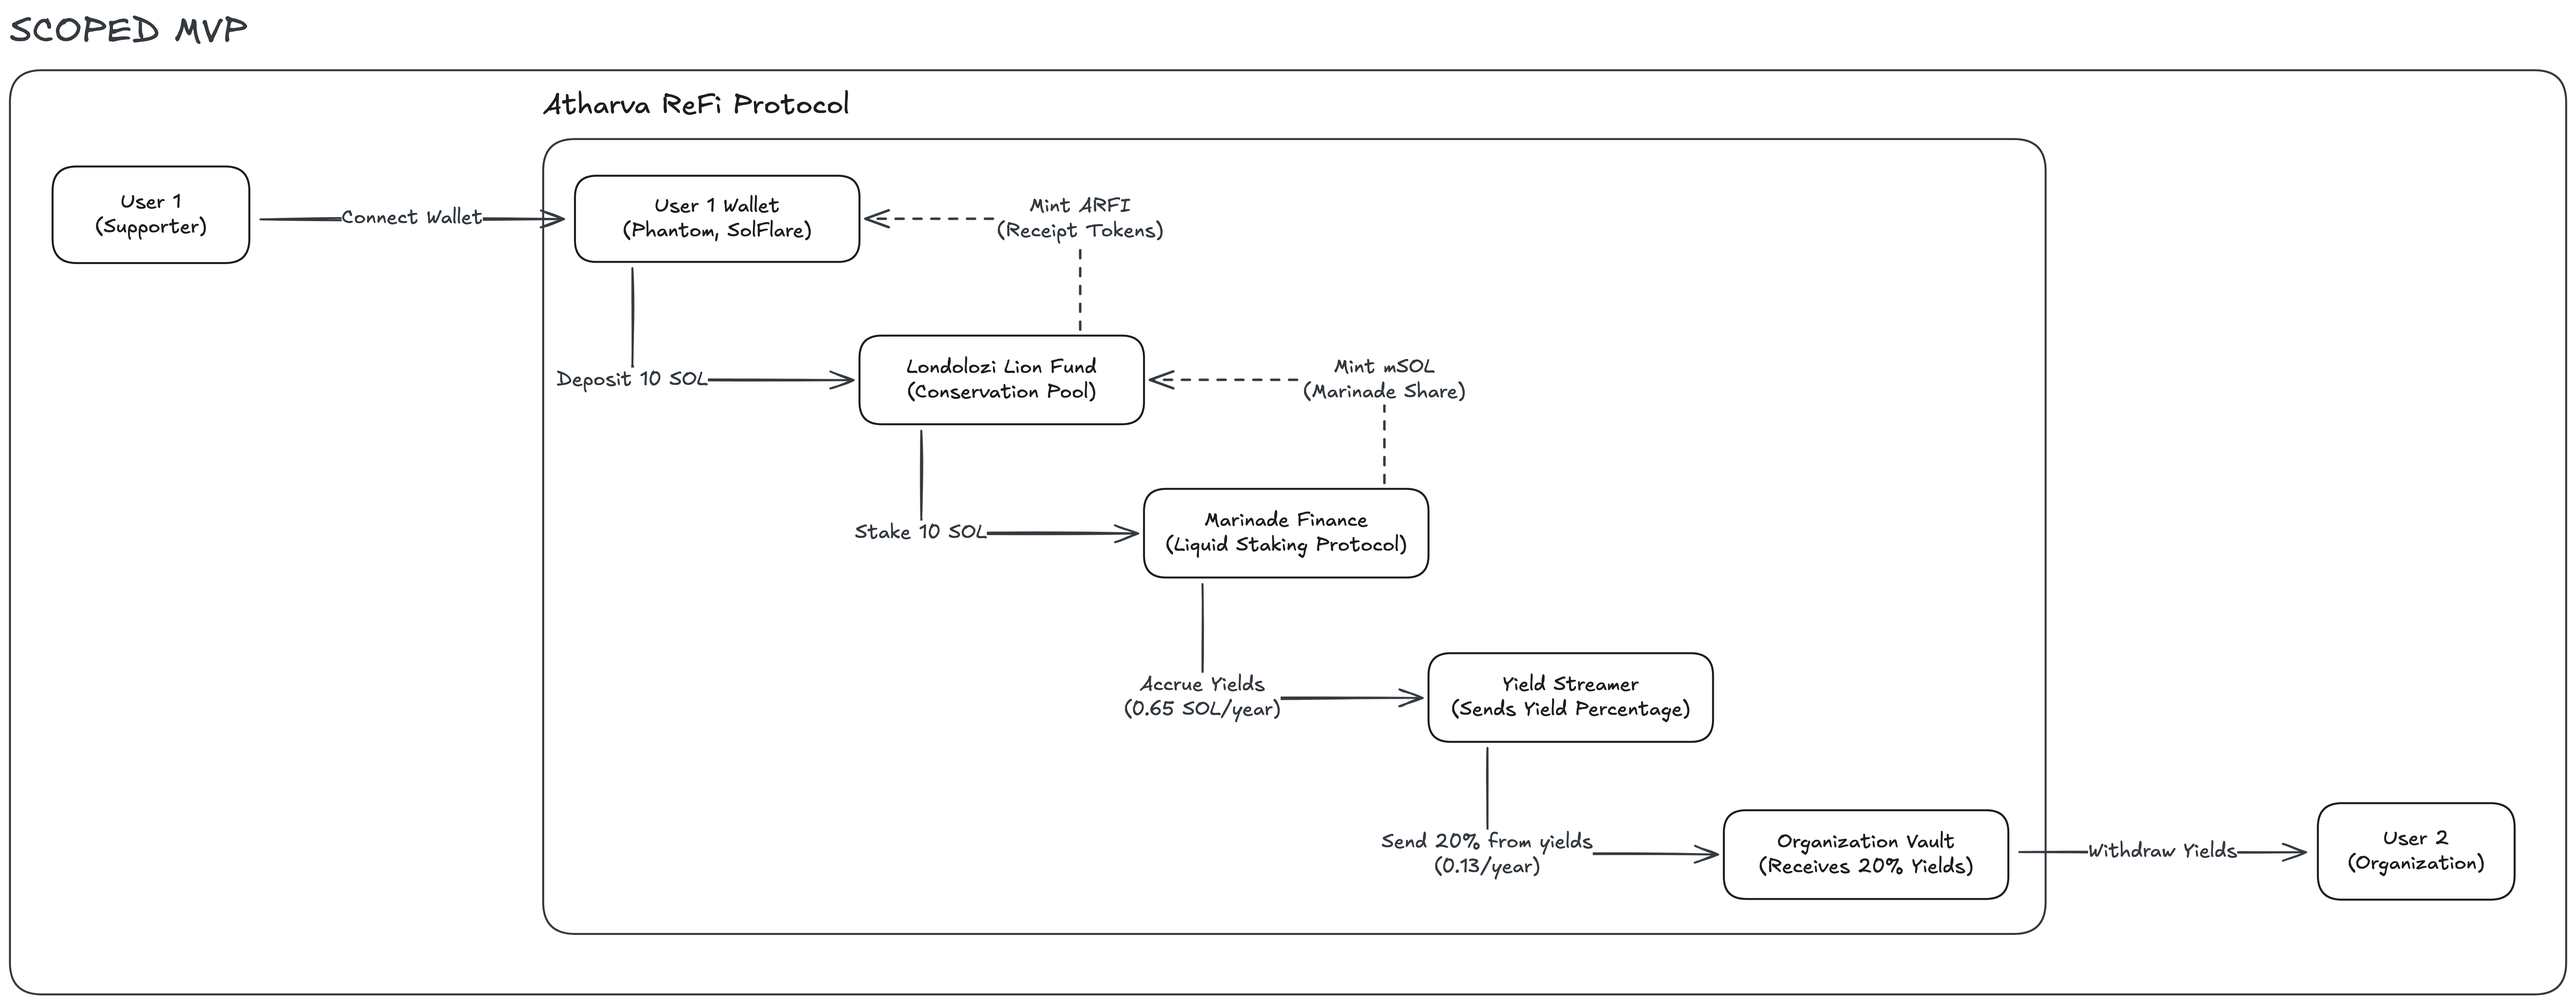
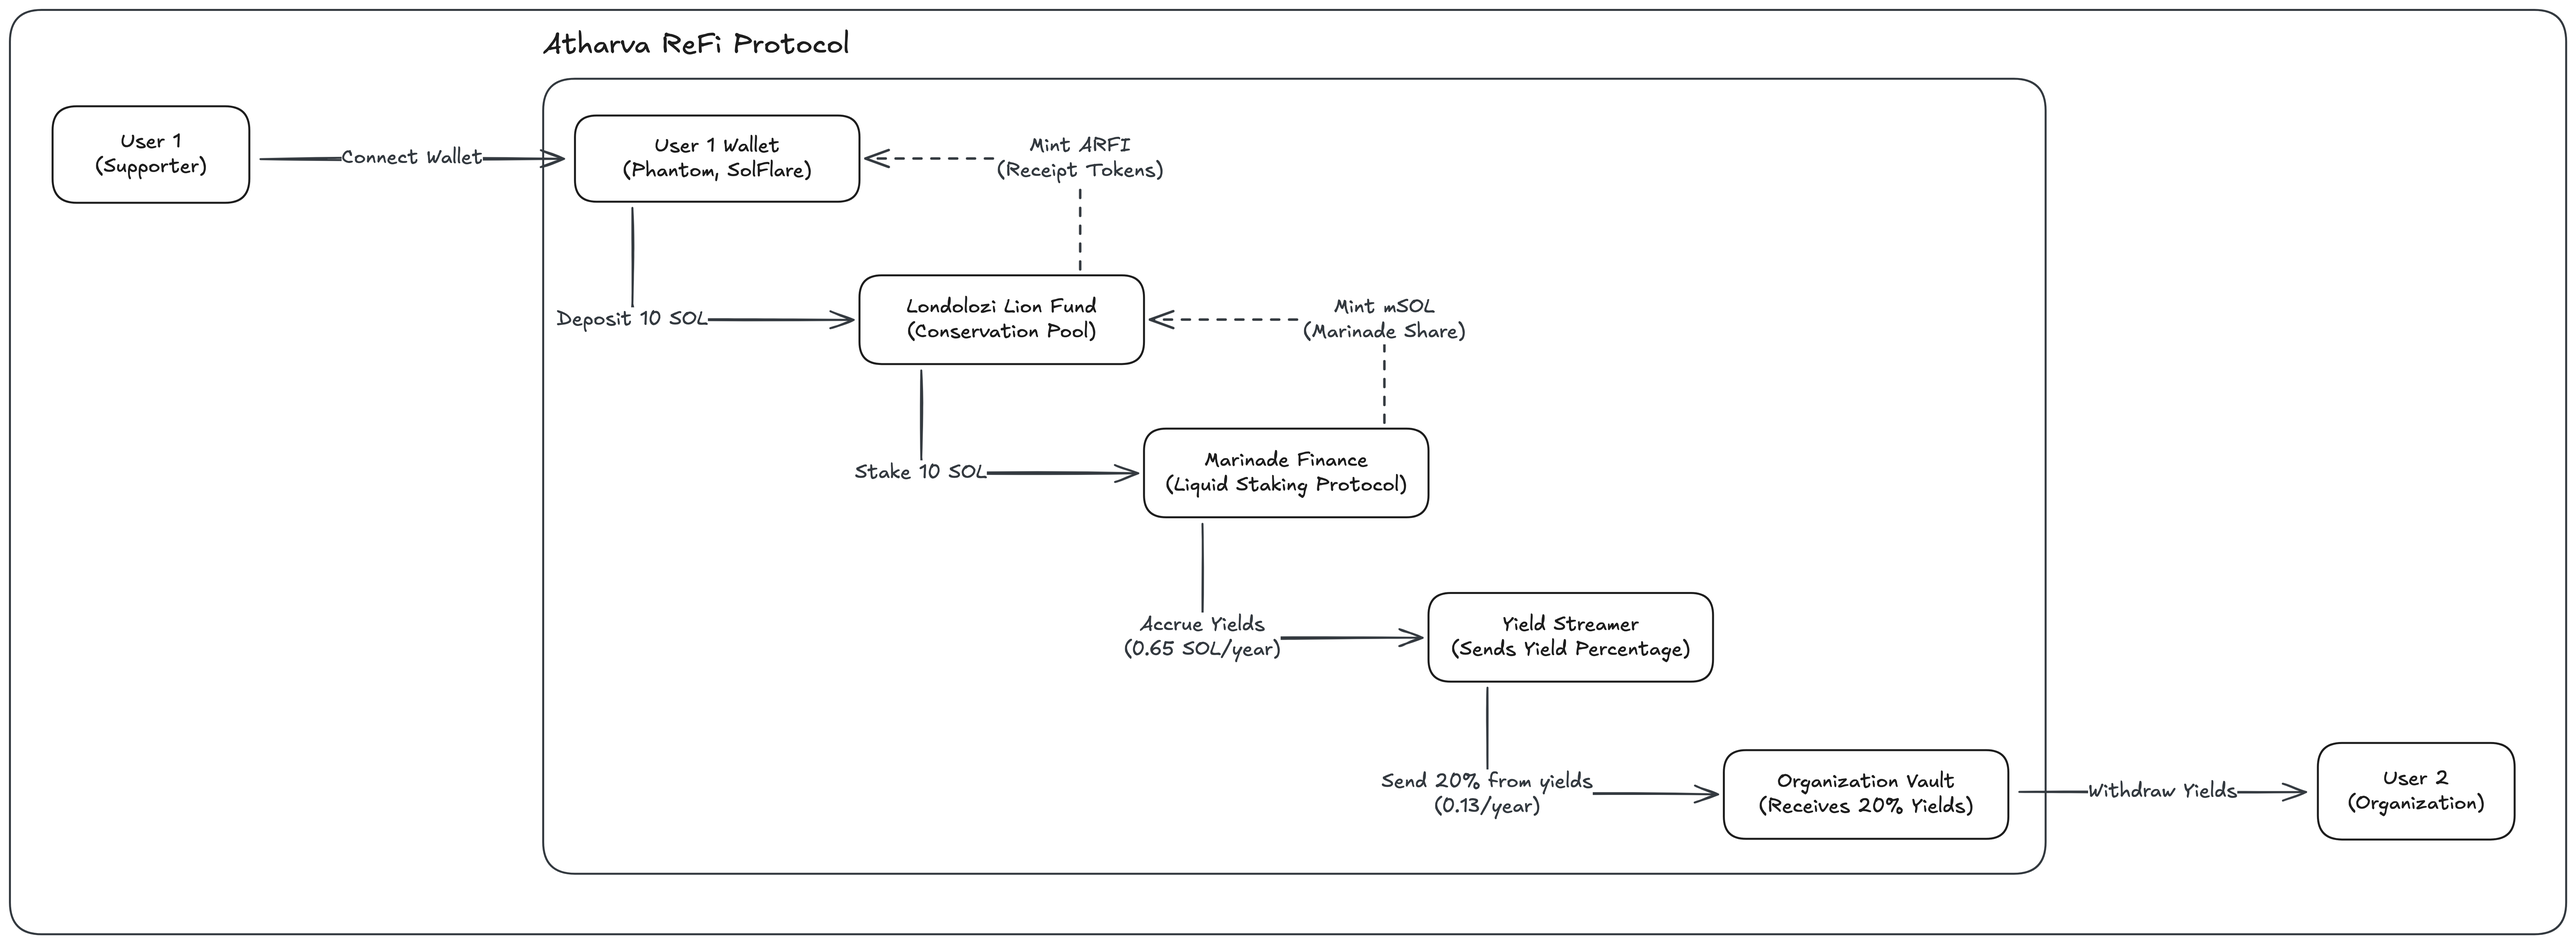
chore: update README; update architecture diagrams

diff --git a/README.md b/README.md
@@ -31,6 +31,7 @@ No donations. No intermediaries. No trust required. Just verifiable impact.
 5. Withdraw whenever you want
 
 **Example:** Stake 10 SOL at 6.5% APY
+
 - You keep: 0.52 mSOL/year (80%)
 - Conservation: 0.13 mSOL/year (20%, auto-streamed)
 
@@ -45,44 +46,42 @@ No donations. No intermediaries. No trust required. Just verifiable impact.
 
 ## Key Features
 
-| Feature | What It Means |
-|---------|---------------|
-| **Non-Custodial** | You control your funds, always |
-| **Auto-Streaming** | Conservation funding happens automatically |
-| **Transparent** | Every transaction visible on-chain |
-| **No Lock-ups** | Withdraw anytime, no penalties |
-| **Liquid Staking** | Your SOL earns yield via Marinade |
-| **Verifiable Impact** | Track exactly where your yields go |
+| Feature               | What It Means                              |
+| --------------------- | ------------------------------------------ |
+| **Non-Custodial**     | You control your funds, always             |
+| **Auto-Streaming**    | Conservation funding happens automatically |
+| **Transparent**       | Every transaction visible on-chain         |
+| **No Lock-ups**       | Withdraw anytime, no penalties             |
+| **Liquid Staking**    | Your SOL earns yield via Marinade          |
+| **Verifiable Impact** | Track exactly where your yields go         |
 
 ---
 
 ## Architecture
 
-### System Overview
+### Scoped MVP
+
+An end-to-end view of the Atharva ReFi protocol, showing how supporter SOL deposits flow through staking, yield generation, and automated on-chain distribution to verified conservation organizations.
 
 ![Scoped MVP](./docs/scoped-mvp.png)
 
-*The complete protocol flow—from user deposits to conservation funding*
+### Pool Creation
 
-### Core Flows
-
-**Pool Creation**
+The onboarding and verification flow for conservation organizations, where an admin creates a species-specific pool, initializes program-derived accounts, and links a verified organization treasury to receive yield.
 
 ![Pool Creation](./docs/create-pool.png)
 
-How conservation organizations get onboarded and receive their dedicated species pool.
+### Supporter Deposit
 
-**Supporter Deposits**
+The deposit lifecycle for supporters, illustrating how SOL is deposited into a pool vault, staked via Marinade to generate mSOL, and how LP tokens are minted to represent the supporter’s proportional ownership.
 
-![Supporter Deposits](./docs/deposit.png)
+![Supporter Deposit](./docs/deposit.png)
 
-How supporters stake SOL and receive LP tokens representing their pool ownership.
+### Yield Streaming
 
-**Yield Streaming**
+The automated yield realization and distribution process, where staking rewards are periodically calculated, 20% is streamed on-chain to the organization’s verified wallet, and the remaining 80% accrues to supporters.
 
 ![Yield Streaming](./docs/stream.png)
-
-Automated 20% yield distribution to conservation wallets, 80% remains for supporters.
 
 ---
 
@@ -99,6 +98,7 @@ Automated 20% yield distribution to conservation wallets, 80% remains for suppor
 ## Getting Started
 
 ### Quick Setup
+
 ```bash
 # Clone and install
 git clone https://github.com/yourusername/atharva-refi.git
@@ -113,6 +113,7 @@ anchor test
 ```
 
 ### Local Development
+
 ```bash
 # Start local Solana validator
 solana-test-validator
@@ -127,6 +128,7 @@ anchor test --skip-local-validator
 ---
 
 ## Project Structure
+
 ```
 atharva-refi/
 ├── programs/
@@ -149,11 +151,11 @@ atharva-refi/
 
 ## Documentation
 
-| Resource | Purpose |
-|----------|---------|
-| [User Stories](./docs/user-story.md) | Real-world usage scenarios |
+| Resource                                       | Purpose                    |
+| ---------------------------------------------- | -------------------------- |
+| [User Stories](./docs/user-story.md)           | Real-world usage scenarios |
 | [Letter of Intent](./docs/letter-of-intent.md) | Project vision and mission |
-| [Architecture Diagrams](./docs/) | Technical system design |
+| [Architecture Diagrams](./docs/)               | Technical system design    |
 
 ---
 
@@ -163,12 +165,12 @@ atharva-refi/
 
 ### Known Issues
 
-| Priority | Issue | Mitigation Plan |
-|----------|-------|-----------------|
-| 🔴 Critical | Hardcoded admin pubkey | Moving to multisig config |
-| 🟠 High | Reentrancy protection | Implementing CEI pattern |
-| 🟠 High | Organization wallet validation | Adding withdrawal constraints |
-| 🟡 Medium | Input validation | Adding comprehensive checks |
+| Priority    | Issue                          | Mitigation Plan               |
+| ----------- | ------------------------------ | ----------------------------- |
+| 🔴 Critical | Hardcoded admin pubkey         | Moving to multisig config     |
+| 🟠 High     | Reentrancy protection          | Implementing CEI pattern      |
+| 🟠 High     | Organization wallet validation | Adding withdrawal constraints |
+| 🟡 Medium   | Input validation               | Adding comprehensive checks   |
 
 ---
 
@@ -177,6 +179,7 @@ atharva-refi/
 We welcome contributions from developers, conservationists, and anyone passionate about transparent impact.
 
 ### How to Contribute
+
 ```bash
 1. Fork the repository
 2. Create your feature branch (git checkout -b feature/amazing-feature)
